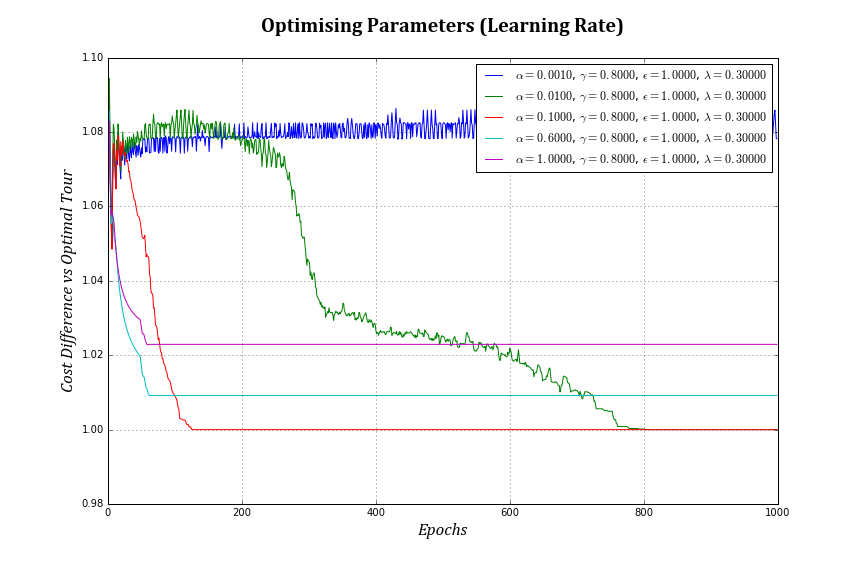
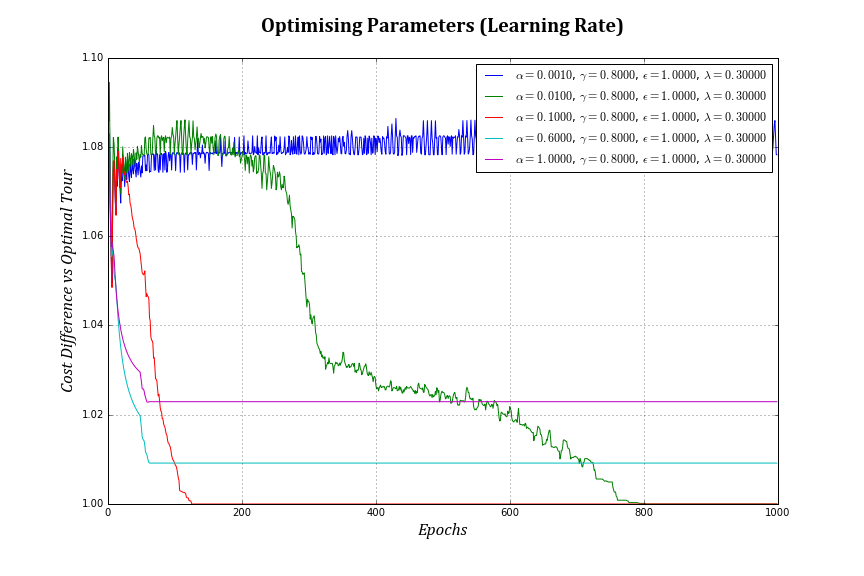
update graph baselines

diff --git a/tspExperimentsPlotResults.py b/tspExperimentsPlotResults.py
@@ -98,7 +98,7 @@ subDict = {}
 # load and prepare plotting data
 plotData = np.load('results/expResults4.npy')
 plotData = plotData / optimal_route_cost
-plotData = plotData[0:1000,subset] # select results of interest
+plotData = plotData[:,subset] # select results of interest
 smooth = 50; plotData = getWindowAverage(plotData, smooth)
 legendData =  pickle.load( open('results/expParameters4.p', 'rb' ))
 
@@ -109,7 +109,7 @@ for d in subset:
     newIdx += 1  
 legendData =  subDict
 
-title = ['Q-Learning with Different Decay Rates\n', 'expResults4ranged']
+title = ['Q-Learning with Different Decay Rates\n', 'expResults4']
 
 # plot and save
 diagnosticsPlot(plotData, legendData, title, saveFile = True)

diff --git a/tsp_PlotData.py b/tsp_PlotData.py
@@ -347,6 +347,7 @@ def diagnosticsPlot(plotData, legendData, title, saveFile):
     plt.title(title[0], fontsize = 20, style = 'normal', fontname = 'cambria')
     plt.xlabel('Epochs', fontsize = 17, style = 'italic', fontname = 'cambria')
     plt.ylabel('Cost Difference vs Optimal Tour', fontsize = 17, style = 'italic', fontname = 'cambria')
+    plt.ylim(ymin=1)
     plt.legend(legendData.values(), fontsize= 12)
     plt.grid()       
 
